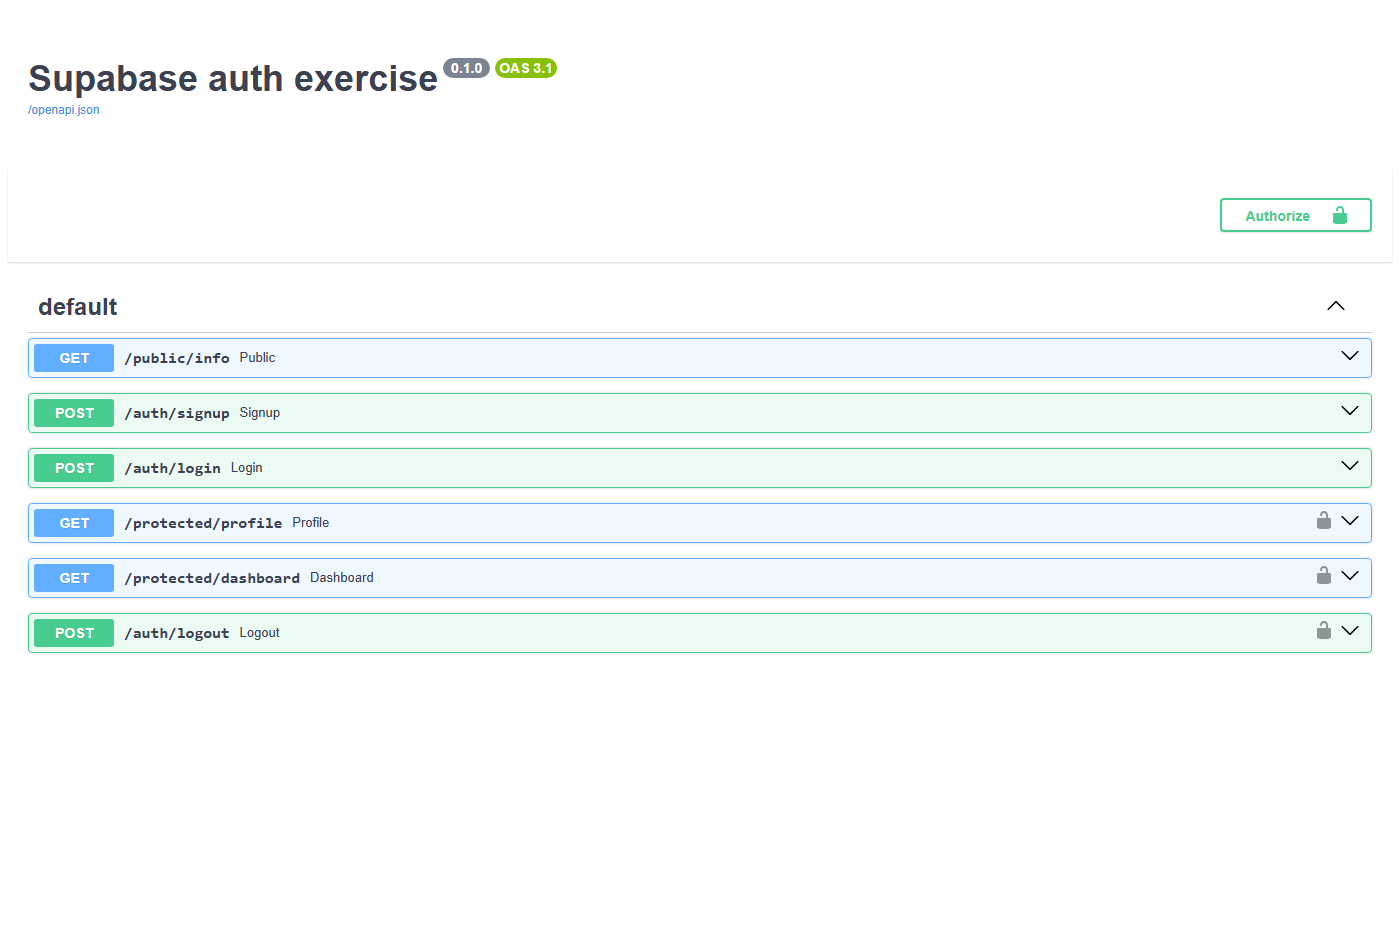
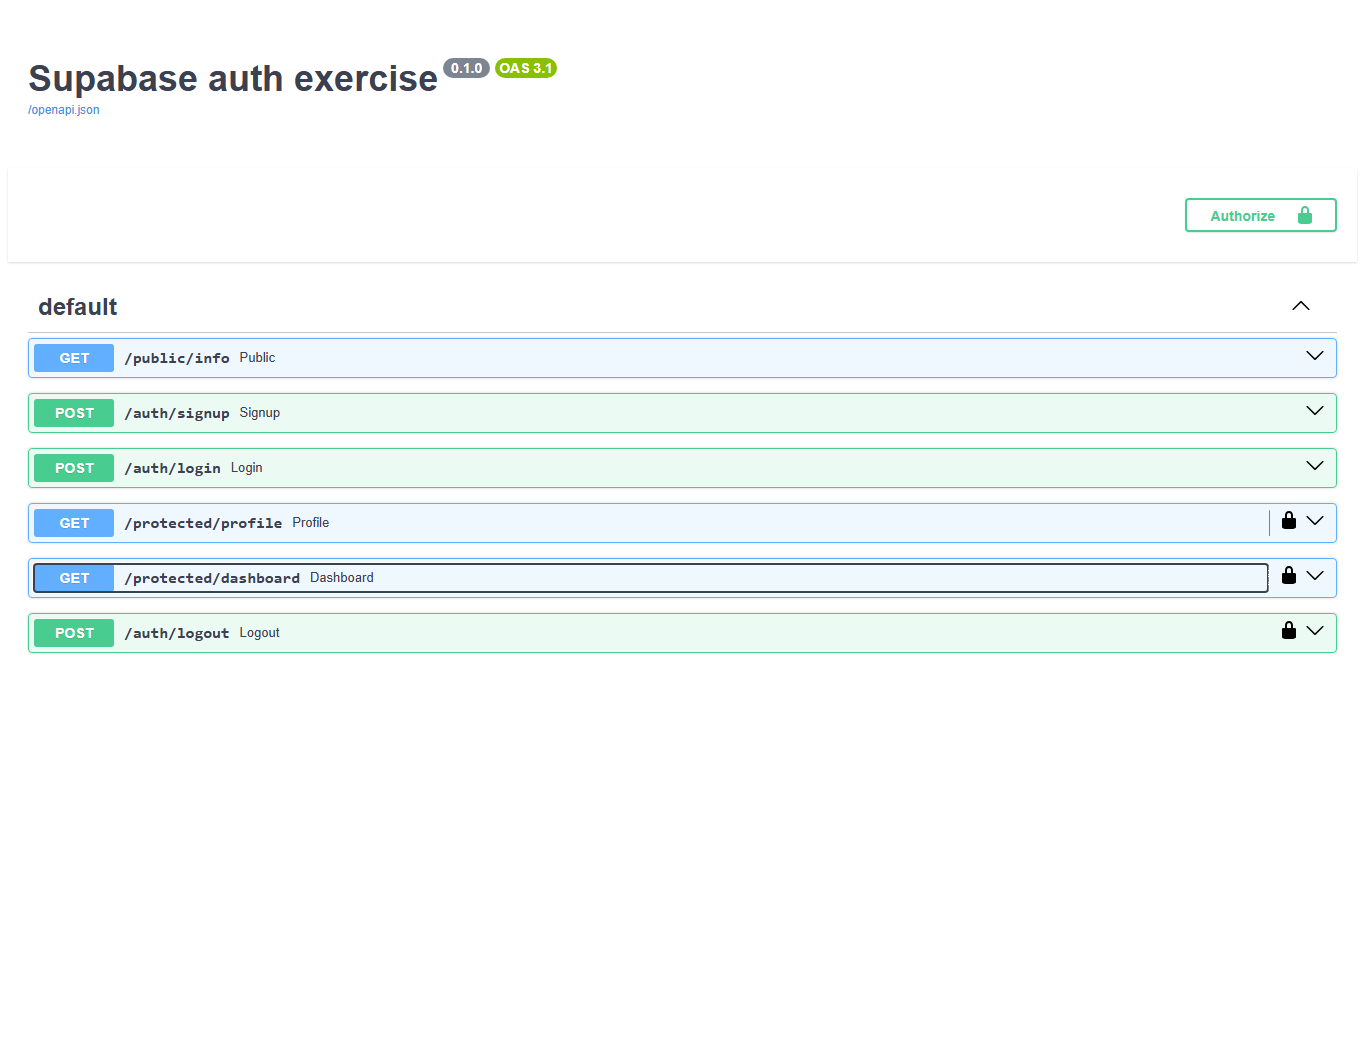
Verify W4 auth through real curl and Swagger flows

Changed region(s): [[0.0, 0.2747, 0.9846, 0.7021], [0.0, 0.0305, 0.4, 0.1221], [0.8615, 0.1832, 0.9846, 0.2442]]

diff --git a/README.md b/README.md
@@ -1,14 +1,80 @@
 # Supabase authentication API
 
-Copy `.env.example` to `.env` and fill in your Supabase project URL and publishable/anon key. Install `pip install -r requirements.txt`, then run `uvicorn app:app --reload`. Swagger with bearer authorization is at `/docs`. Signup may require email confirmation before login depending on project settings.
+Python/FastAPI API using Supabase Auth for signup, login, token verification and logout. Supabase manages passwords; this app does not store passwords or implement password hashing.
+
+## Setup and run
+
+Create a Supabase project. Enable Email sign-in and allow new users to sign up. For this practice exercise, disable Confirm email so a newly created account can log in immediately. If you keep email confirmation enabled, confirm the account before login.
+
+Open a terminal in the repository directory. On Windows PowerShell:
+
+```powershell
+Copy-Item .env.example .env
+pip install -r requirements.txt
+```
+
+On macOS/Linux, use `cp .env.example .env` for the first command. Fill in `.env` locally:
+
+| Variable | Value |
+|---|---|
+| SUPABASE_URL | Your project's HTTPS URL |
+| SUPABASE_KEY | Your publishable key or legacy anon key |
+
+Use a publishable/anon key, never a service role key. Keep `.env` out of Git. Start the API with one command:
+
+```sh
+uvicorn app:app --reload --port 8008
+```
+
+Open http://localhost:8008/docs for Swagger UI. Port 8008 avoids the PostgreSQL assignment already using port 8000; you can select another free port with `--port`.
+
+## API reference
 
 | Method | Path | Bearer required |
 |---|---|---|
-| POST | /auth/signup, /auth/login | No |
+| POST | /auth/signup | No |
+| POST | /auth/login | No |
 | POST | /auth/logout | Yes |
 | GET | /public/info | No |
-| GET | /protected/profile, /protected/dashboard | Yes |
+| GET | /protected/profile | Yes |
+| GET | /protected/dashboard | Yes |
 
-The backend uses the Supabase Python SDK to verify every bearer token and sign out the caller's session. Each request gets a fresh SDK client rather than sharing a mutable user session. Supabase logout revokes refresh sessions; an already-issued JWT may remain valid until expiry. Do not put a service role key in this app. [Swagger screenshot](swagger.png) shows the routes and authorization control.
+Signup and login accept JSON with `email` and `password`. Signup returns 201 with the user object; login returns 200 with `access_token` and `refresh_token`. Missing or empty credentials return 400; rejected login credentials return 401. Supply `Authorization: Bearer <access_token>` to protected routes. Missing, malformed or invalid tokens return 401 with a JSON `error` message. Profile returns only `id`, `email` and `created_at`; dashboard reuses the same verification dependency. Successful logout returns 204 with an empty body.
+
+The backend uses the Supabase Python SDK's `get_user(token)` to verify bearer tokens, rather than trusting decoded claims alone. Each request gets a fresh SDK client rather than sharing a mutable user session. Logout passes the verified caller's token to `auth.admin.sign_out(token)`, which targets that caller's session; the app still uses the publishable/anon project key. Supabase logout revokes refresh sessions; an already-issued JWT may remain valid until expiry.
 
 Live Supabase verification on 2026-11-05 used a new temporary test account with email confirmation disabled: signup 201, login 200, missing token 401, tampered token 401, profile 200, dashboard 200, logout 204. Credentials and tokens were neither printed nor committed. Enable Email sign-in and new signups in your project; if email confirmation is enabled, confirm the account before login.
+
+## Full PDF verification
+
+The [redacted HTTP and browser transcript](verification.txt) records a fresh audit on 2026-11-05 with the real API and configured Supabase project. Both required flows were completed:
+
+- Actual `curl.exe -i`: public information 200, signup 201, login 200, profile/dashboard 200 with a valid token, tampered token 401 on both protected GET routes, and logout 204 with no body. Missing/malformed/invalid bearer headers were rejected on profile, dashboard and logout. Missing/empty credentials returned 400, and a wrong login password returned 401.
+- Actual Swagger UI controls: signup 201 and login 200 through Try it out; Authorize with the returned token; profile and dashboard 200; replace the authorization with a tampered token and receive 401; restore the valid token and log out with 204.
+
+Passwords, project keys and session tokens are omitted or redacted in the transcript. A scan of every Git revision found no configured Supabase key and no committed `.env` file. The publishable key remains in the ignored local `.env` only.
+
+The screenshot was taken after the successful browser checks, with endpoint panels collapsed so credentials and Authorization headers are not visible. Protected routes show their lock icons and the Authorize control is available:
+
+![Swagger UI with bearer authorization and protected routes](swagger.png)
+
+## Try it in Swagger
+
+1. Open `/auth/signup`, click Try it out, enter an email/password and Execute.
+2. Use the same credentials with `/auth/login` and copy its access token.
+3. Click Authorize, paste the access token without the `Bearer` prefix, authorize and close the dialog.
+4. Execute `/protected/profile` and `/protected/dashboard`; both should return 200.
+5. Replace the token with a version containing a changed signature character; the protected call should return 401. Restore the valid token and execute `/auth/logout` for 204.
+
+## Automated tests
+
+```sh
+pip install pytest httpx
+python -m pytest -q
+```
+
+All three tests pass. These tests replace the authentication provider to exercise SDK integration and guard behavior without creating accounts. The separate curl/Swagger verification above used real Supabase Auth.
+
+## Submission history
+
+The numeric minimum of six commits is met. The original development stages were not committed individually; later verification commits document real work and do not reconstruct that stage-by-stage history.
